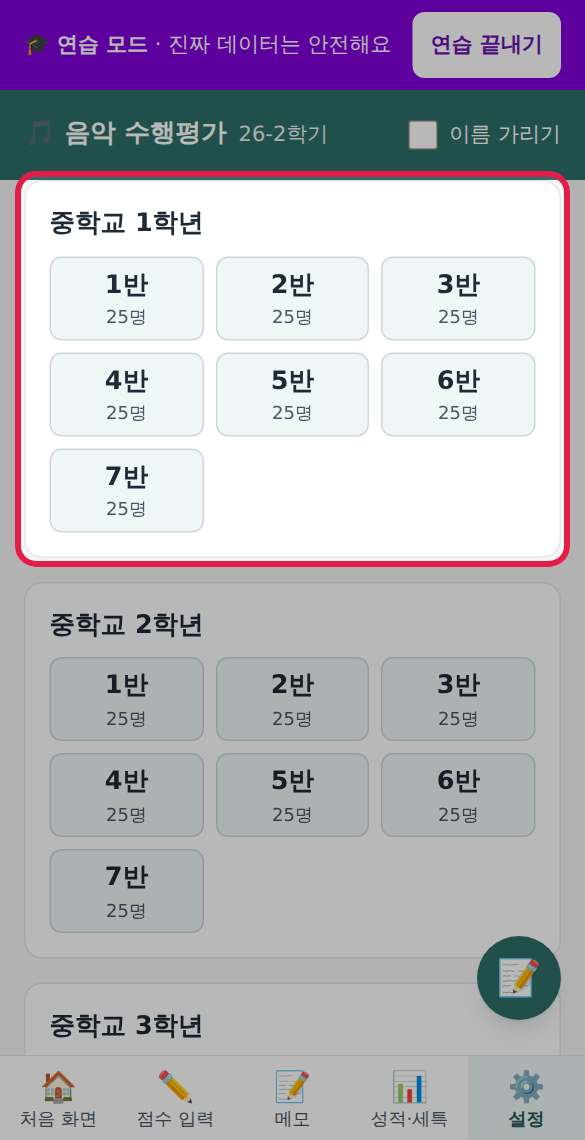
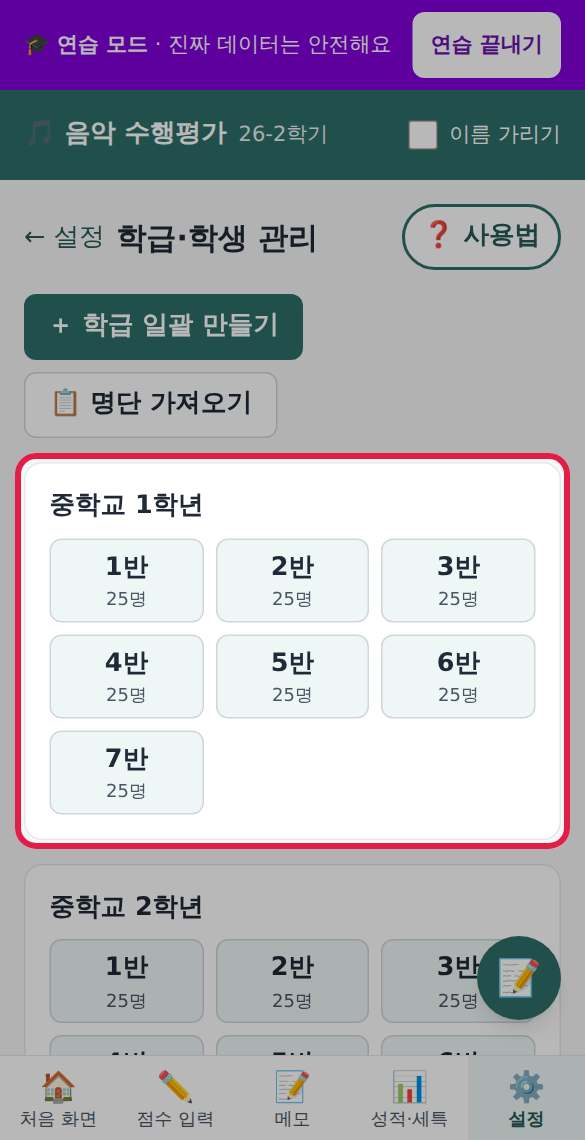
휴대폰 학생 목록 개선, 첫 화면 인사말, 설정으로 돌아가기 버튼
- 학급 학생 목록: 휴대폰에서 학생마다 두 줄(번호·이름 / 상태·비고)로 이름·비고가 잘 보이게
- 첫 화면 인사말: 안녕하세요, 이정애 선생님
- 사용법 모음·평가 계획에 '← 설정' 버튼, 변경 이력의 돌아가기는 설정으로
- 사용법 그림 다시 찍음

Claude-Session: https://claude.ai/code/session_019E8GiS2TyZou2sfp1beSHq

diff --git a/src/pages/ClassDetail.tsx b/src/pages/ClassDetail.tsx
@@ -3,9 +3,12 @@ import { useLiveQuery } from 'dexie-react-hooks'
 import { db } from '../db/db'
 import { deleteClass, deleteStudent } from '../db/services'
 import { useApp } from '../app/AppContext'
-import { Button, Card, inputCls, useConfirm } from '../components/ui'
+import { Button, Card, useConfirm } from '../components/ui'
 import type { Student, StudentStatus } from '../db/types'
 import { HelpButton } from '../components/Help'
+
+// inputCls 의 w-full 을 빼고 칸 너비를 따로 정함
+const field = 'min-h-11 px-3 rounded-lg border border-gray-300 bg-white'
 
 export function ClassDetail() {
   const id = Number(useParams().id)
@@ -30,44 +33,37 @@ export function ClassDetail() {
         </h1>
         <HelpButton topic="classes" />
       </div>
+      {/* 휴대폰에서는 학생마다 두 줄(번호·이름 / 상태·비고), 넓은 화면에서는 한 줄 */}
       <Card className="p-0 overflow-hidden">
-        <table className="w-full">
-          <thead className="bg-gray-100 text-sm">
-            <tr><th className="p-2 w-14">번호</th><th>이름 (선택)</th><th className="w-28">상태</th><th>비고</th><th className="w-14"></th></tr>
-          </thead>
-          <tbody>
-            {students.map((s) => (
-              <tr key={s.id} className="border-t">
-                <td className="p-2 text-center font-semibold">{s.no}</td>
-                <td className="p-1">
-                  <input
-                    key={`${s.id}-${s.name}`}
-                    className={inputCls}
-                    defaultValue={hideNames ? '' : s.name ?? ''}
-                    placeholder={hideNames ? '(이름 가리기 중)' : '이름 없음'}
-                    disabled={readOnly || hideNames}
-                    onBlur={(e) => e.target.value.trim() !== (s.name ?? '') && patch(s, { name: e.target.value.trim() || undefined })}
-                  />
-                </td>
-                <td className="p-1">
-                  <select className={inputCls} value={s.status} disabled={readOnly} onChange={(e) => patch(s, { status: e.target.value as StudentStatus })}>
-                    <option>재학</option><option>전출</option><option>전입</option>
-                  </select>
-                </td>
-                <td className="p-1">
-                  <input key={`${s.id}-${s.note}`} className={inputCls} defaultValue={s.note ?? ''} disabled={readOnly}
-                    onBlur={(e) => e.target.value !== (s.note ?? '') && patch(s, { note: e.target.value || undefined })} />
-                </td>
-                <td className="p-1">
-                  {!readOnly && (
-                    <Button variant="ghost" aria-label={`${s.no}번 삭제`}
-                      onClick={() => ask(`${s.no}번 학생과 그 학생의 점수·메모를 삭제합니다. 되돌릴 수 없습니다.`, () => void deleteStudent(s.id!), '삭제')}>🗑</Button>
-                  )}
-                </td>
-              </tr>
-            ))}
-          </tbody>
-        </table>
+        <ul className="divide-y">
+          {students.map((s) => (
+            <li key={s.id} className="p-2 flex flex-wrap items-center gap-2">
+              <span className="w-10 text-center text-lg font-bold shrink-0">{s.no}</span>
+              <input
+                key={`${s.id}-${s.name}`}
+                className={`${field} flex-1 min-w-0 text-lg`}
+                aria-label={`${s.no}번 이름`}
+                defaultValue={hideNames ? '' : s.name ?? ''}
+                placeholder={hideNames ? '(이름 가리기 중)' : '이름 (선택)'}
+                disabled={readOnly || hideNames}
+                onBlur={(e) => e.target.value.trim() !== (s.name ?? '') && patch(s, { name: e.target.value.trim() || undefined })}
+              />
+              <div className="order-3 sm:order-2 w-full sm:w-auto sm:flex-[1.3] flex gap-2 pl-12 sm:pl-0">
+                <select className={`${field} w-24 shrink-0`} aria-label={`${s.no}번 상태`} value={s.status} disabled={readOnly}
+                  onChange={(e) => patch(s, { status: e.target.value as StudentStatus })}>
+                  <option>재학</option><option>전출</option><option>전입</option>
+                </select>
+                <input key={`${s.id}-${s.note}`} className={`${field} flex-1 min-w-0`} aria-label={`${s.no}번 비고`}
+                  placeholder="비고" defaultValue={s.note ?? ''} disabled={readOnly}
+                  onBlur={(e) => e.target.value !== (s.note ?? '') && patch(s, { note: e.target.value || undefined })} />
+              </div>
+              {!readOnly && (
+                <Button variant="ghost" className="order-2 sm:order-3 px-2" aria-label={`${s.no}번 삭제`}
+                  onClick={() => ask(`${s.no}번 학생과 그 학생의 점수·메모를 삭제합니다. 되돌릴 수 없습니다.`, () => void deleteStudent(s.id!), '삭제')}>🗑</Button>
+              )}
+            </li>
+          ))}
+        </ul>
       </Card>
       {!readOnly && (
         <div className="flex gap-2 flex-wrap">

diff --git a/src/pages/HelpHub.tsx b/src/pages/HelpHub.tsx
@@ -1,4 +1,5 @@
 import { useState } from 'react'
+import { Link } from 'react-router-dom'
 import { guides, situations, type HelpTopic } from '../help/slides'
 import { SlideShow } from '../components/Help'
 import { Card } from '../components/ui'
@@ -8,7 +9,10 @@ export function HelpHub() {
   const entries = Object.entries(guides) as [HelpTopic, (typeof guides)[HelpTopic]][]
   return (
     <div className="space-y-4">
-      <h1 className="text-xl font-bold">❓ 사용법 모음</h1>
+      <div className="flex items-center gap-2">
+        <Link to="/settings" className="text-brand-700 min-h-11 leading-[44px]">← 설정</Link>
+        <h1 className="text-xl font-bold flex-1">❓ 사용법 모음</h1>
+      </div>
       <p className="text-gray-700">궁금한 것을 누르면 실제 화면 그림이 자동으로 넘어가며 설명합니다. 화면마다 오른쪽 위 <b>❓ 사용법</b> 버튼으로도 볼 수 있어요.</p>
       {situations.map((sit) => (
         <Card key={sit} className="space-y-2">

diff --git a/src/pages/Plans.tsx b/src/pages/Plans.tsx
@@ -48,6 +48,7 @@ export function Plans() {
   return (
     <div className="space-y-4">
       <div className="flex items-center gap-2 flex-wrap">
+        <Link to="/settings" className="text-brand-700 min-h-11 leading-[44px]">← 설정</Link>
         <h1 className="text-xl font-bold flex-1">평가 계획</h1>
         {detailed && <Link to="/plans/history" className="text-brand-700 font-semibold min-h-11 leading-[44px]">🕘 변경 이력</Link>}
         <HelpButton topic="plans" />

diff --git a/src/pages/History.tsx b/src/pages/History.tsx
@@ -14,7 +14,7 @@ export function History() {
   return (
     <div className="space-y-4">
       <div className="flex items-center gap-2">
-        <Link to="/plans" className="text-brand-700 min-h-11 leading-[44px]">← 평가 계획</Link>
+        <Link to="/settings" className="text-brand-700 min-h-11 leading-[44px]">← 설정</Link>
         <h1 className="text-xl font-bold flex-1">변경 이력</h1>
         <HelpButton topic="plans" />
       </div>

diff --git a/src/pages/Dashboard.tsx b/src/pages/Dashboard.tsx
@@ -35,7 +35,7 @@ export function Dashboard() {
   return (
     <div className="space-y-4">
       <div className="flex items-center gap-2">
-        <h1 className="text-xl font-bold flex-1">안녕하세요, 선생님 👋</h1>
+        <h1 className="text-xl font-bold flex-1">안녕하세요, 이정애 선생님 👋</h1>
         <HelpButton topic="home" />
       </div>
 
